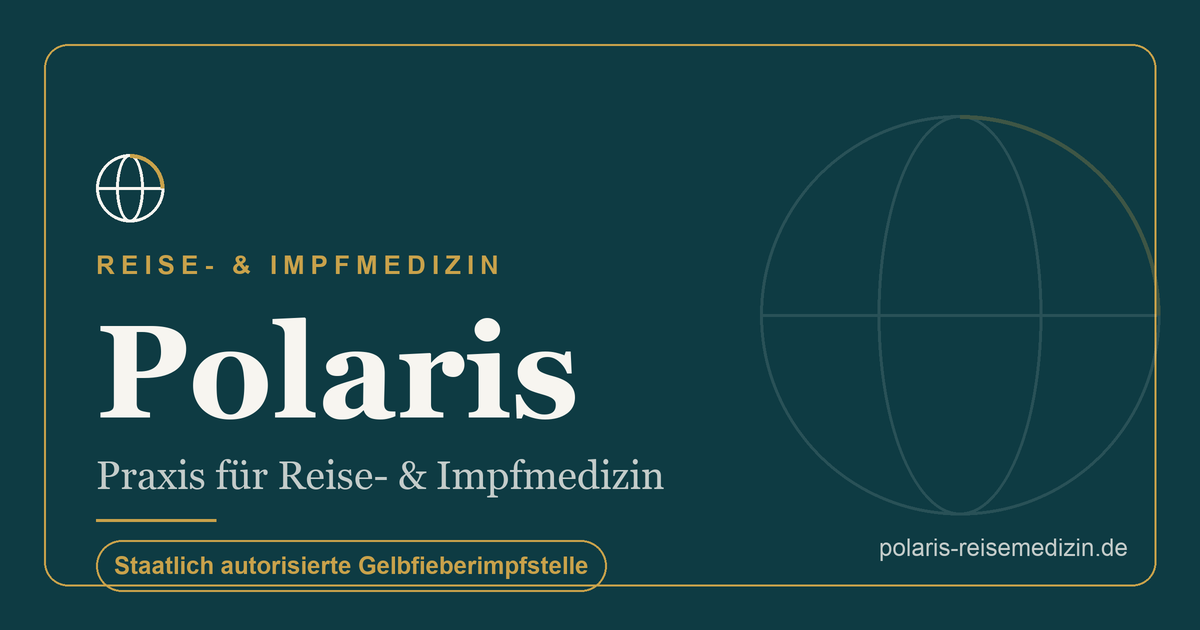
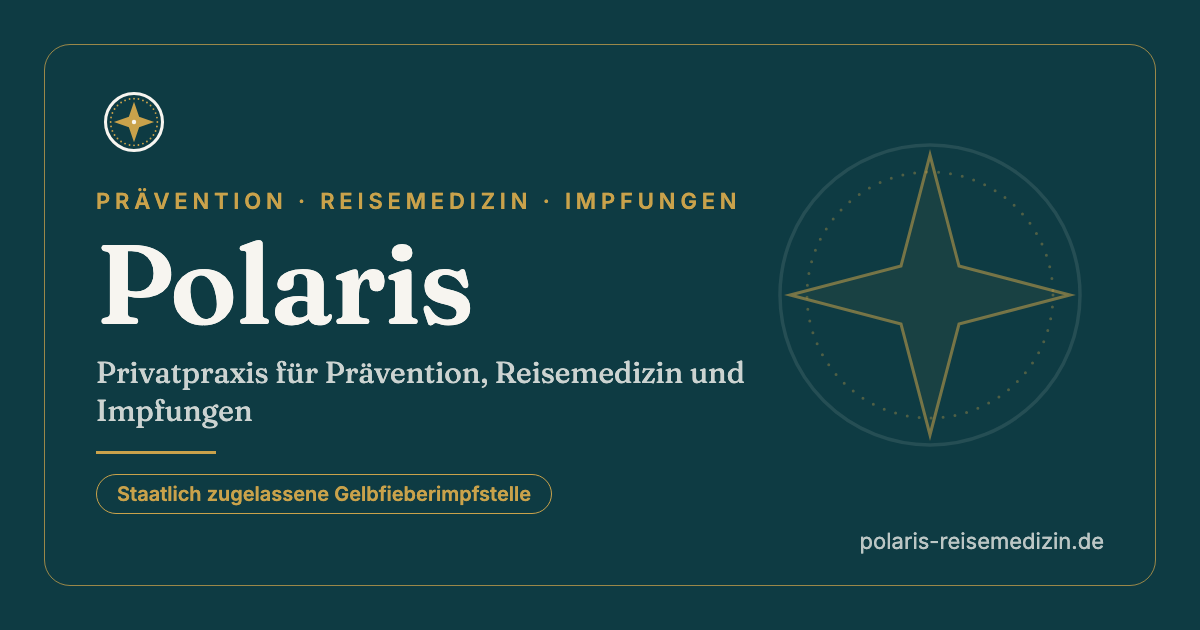
Praxisname „Privatpraxis für Prävention, Reisemedizin und Impfungen“; strukturierte Daten je Präventionsleistung (Art, Beschreibung, Adresse), Angebotsliste auf /praevention, knowsAbout; llms.txt für KI-Dienste; Vorschaubilder mit Leitstern (Petrol und Salbei)

diff --git a/src/data/praevention/schema.ts b/src/data/praevention/schema.ts
@@ -1,0 +1,132 @@
+/**
+ * Strukturierte Daten (JSON-LD, schema.org) der Themenwelt Prävention.
+ *
+ * Ziel (Nicki, 20.11.2026): Wer bei Google oder einer KI nach Gesundheitscheck,
+ * Blutwerten, Laboruntersuchung oder Haarausfall sucht, soll Polaris finden,
+ * nicht nur bei Reiseimpfungen. Deshalb beschreibt jede Leistung sich hier selbst:
+ * Art (Untersuchung, Test, Behandlung), Name, ein Satz und die Adresse ihrer Seite.
+ * Dieselben Knoten nutzen der Praxis-Knoten (`availableService`), die Übersicht
+ * /praevention (Liste der Angebote) und jede Angebotsseite (`about`).
+ *
+ * Nur Typen und Felder, die schema.org kennt; keine Preise (die Seiten nennen
+ * Richtwerte mit „ca.“, ein fester Preis im Code wäre eine falsche Angabe).
+ */
+import type { Locale } from '../../config/site';
+import { preventionOffers, preventionPath } from './index';
+import { haarePrp } from './angebote/haare';
+
+type Knoten = Record<string, unknown>;
+
+/** Welche Art von Leistung ein Angebot ist (schema.org-Typ). */
+const ART: Record<string, 'MedicalProcedure' | 'MedicalTest'> = {
+  gesundheitscheck: 'MedicalProcedure',
+  'laborwerte-check': 'MedicalTest',
+  'gewicht-und-stoffwechsel': 'MedicalProcedure',
+  haare: 'MedicalProcedure',
+};
+
+export const PRP_PFAD = '/praevention/haare/prp';
+
+/** Ohne Haarsprechstunde gibt es auch keine PRP-Seite. */
+export const hatPrp = preventionOffers.some((o) => o.slug === 'haare');
+
+/**
+ * Alle Präventionsleistungen als schema.org-Knoten, in der Reihenfolge der
+ * Website. `zuUrl` macht aus einem Pfad die volle Adresse in der Seitensprache.
+ */
+export function praeventionLeistungen(lang: Locale, zuUrl: (pfad: string) => string): Knoten[] {
+  const angebote: Knoten[] = preventionOffers.map((o) => {
+    const art = ART[o.slug] ?? 'MedicalProcedure';
+    return {
+      '@type': art,
+      name: o.page.meta.title[lang],
+      description: o.teaser[lang],
+      url: zuUrl(preventionPath(o.slug)),
+      ...(art === 'MedicalProcedure' ? { procedureType: 'https://schema.org/NoninvasiveProcedure' } : {}),
+    };
+  });
+  const prp: Knoten[] = hatPrp
+    ? [
+        {
+          '@type': 'MedicalTherapy',
+          name: haarePrp.meta.title[lang],
+          description:
+            lang === 'de'
+              ? 'Behandlung mit plättchenreichem Plasma aus dem eigenen Blut bei erblich bedingtem Haarausfall; der erste Termin beginnt mit einer Haarsprechstunde.'
+              : 'Treatment with platelet-rich plasma from your own blood for inherited hair loss; the first appointment begins with a hair consultation.',
+          url: zuUrl(PRP_PFAD),
+        },
+      ]
+    : [];
+  const tests: Knoten[] = [
+    {
+      '@type': 'MedicalTest',
+      name: lang === 'de' ? 'Vitamin-D-Test' : 'Vitamin D test',
+      description:
+        lang === 'de'
+          ? 'Bestimmung des Vitamin-D-Spiegels im Blut mit ärztlicher Einordnung.'
+          : 'Measurement of the vitamin D level in the blood with a medical assessment.',
+      url: zuUrl('/ratgeber/vitamin-d-test-beim-arzt'),
+    },
+    {
+      '@type': 'MedicalTest',
+      name: lang === 'de' ? 'Großes Blutbild' : 'Full blood count',
+      description:
+        lang === 'de'
+          ? 'Großes Blutbild als Selbstzahlerleistung, mit Besprechung der Werte.'
+          : 'Full blood count as a self-pay service, with a discussion of the results.',
+      url: zuUrl('/ratgeber/grosses-blutbild-kosten'),
+    },
+  ];
+  return [...angebote, ...prp, ...tests];
+}
+
+/** Hauptthema einer Angebotsseite (`about` der MedicalWebPage). */
+export function praeventionThema(slug: string, lang: Locale, zuUrl: (pfad: string) => string): Knoten | undefined {
+  return praeventionLeistungen(lang, zuUrl).find((k) => k.url === zuUrl(slug === 'prp' ? PRP_PFAD : preventionPath(slug)));
+}
+
+/** Zusatz für die PRP-Seite: Gegenanzeigen aus dem Seitentext. */
+export function prpGegenanzeigen(lang: Locale): string[] {
+  const abschnitt = haarePrp.sections.find((s) => s.id === 'nicht-passend');
+  return (abschnitt?.list?.[lang] ?? []).map((t) => t.replace(/[,.]$/, ''));
+}
+
+/** Themen, zu denen die Praxis Auskunft gibt (`knowsAbout` am Praxis-Knoten). */
+export function praxisThemen(lang: Locale): string[] {
+  return lang === 'de'
+    ? [
+        'Prävention',
+        'Gesundheitscheck',
+        'Blutwerte',
+        'Laboruntersuchung',
+        'Vitamin D',
+        'Ferritin',
+        'Blutbild',
+        'Gewicht und Stoffwechsel',
+        'Haarausfall',
+        ...(hatPrp ? ['PRP bei Haarausfall'] : []),
+        'Reisemedizin',
+        'Reiseimpfungen',
+        'Gelbfieberimpfung',
+        'Malariaprophylaxe',
+        'Impfungen für Erwachsene',
+      ]
+    : [
+        'Prevention',
+        'Health check-up',
+        'Blood tests',
+        'Laboratory tests',
+        'Vitamin D',
+        'Ferritin',
+        'Blood count',
+        'Weight and metabolism',
+        'Hair loss',
+        ...(hatPrp ? ['PRP for hair loss'] : []),
+        'Travel medicine',
+        'Travel vaccinations',
+        'Yellow fever vaccination',
+        'Malaria prevention',
+        'Adult vaccinations',
+      ];
+}

diff --git a/src/pages/llms.txt.ts b/src/pages/llms.txt.ts
@@ -1,0 +1,73 @@
+/**
+ * /llms.txt – kurze Übersicht der Praxis für KI-Dienste (Vorschlag llmstxt.org).
+ * Nicki 20.11.2026: „dass wir auch von KI gefunden werden“. Ob ein Dienst die
+ * Datei liest, ist nicht gesichert; sie fasst nur zusammen, was auf den Seiten
+ * steht, und wird bei jedem Bau aus denselben Daten erzeugt.
+ */
+import type { APIRoute } from 'astro';
+import { site, SITE_URL } from '../config/site';
+import { preventionOffers, preventionPath } from '../data/praevention';
+import { haarePrp } from '../data/praevention/angebote/haare';
+import { PRP_PFAD, hatPrp } from '../data/praevention/schema';
+import { NACHWEISE_IM_ANGEBOT } from '../data/ausland/stand';
+
+const url = (pfad: string) => new URL(pfad.endsWith('/') ? pfad : `${pfad}/`, SITE_URL).href;
+const zeile = (name: string, pfad: string, text: string) => `- [${name}](${url(pfad)}): ${text}`;
+
+const praevention = [
+  ...preventionOffers.map((o) => zeile(o.page.meta.title.de, preventionPath(o.slug), o.teaser.de)),
+  ...(hatPrp
+    ? [zeile(haarePrp.meta.title.de, PRP_PFAD, 'Plasma aus dem eigenen Blut bei erblich bedingtem Haarausfall. Der erste Termin beginnt mit einer Haarsprechstunde; passt PRP nicht, wird nicht behandelt.')]
+    : []),
+  zeile('Beispielkosten Prävention', '/praevention/kosten', 'Richtwerte nach der Gebührenordnung für Ärzte (GOÄ), je Termin und mit Laborwerten.'),
+  zeile('Termin Prävention', '/praevention/termin', 'Ersttermine direkt über die Website buchen, auch am Abend und am Samstag.'),
+];
+
+const wissen = [
+  zeile('Welche Blutwerte wofür?', '/ratgeber/blutwerte-erklaert', 'Die wichtigsten Blutwerte verständlich erklärt.'),
+  zeile('Großes Blutbild: Kosten', '/ratgeber/grosses-blutbild-kosten', 'Was ein großes Blutbild zeigt und was es als Selbstzahlerleistung kostet.'),
+  zeile('Vitamin-D-Test beim Arzt', '/ratgeber/vitamin-d-test-beim-arzt', 'Wann eine Messung etwas ändert und was sie kostet.'),
+];
+
+const reise = [
+  zeile('Leistungen', '/leistungen', 'Reisemedizinische Beratung, Reiseimpfungen, Gelbfieberimpfung, Malaria- und Höhenberatung, Impfungen für Erwachsene.'),
+  zeile('Reiseziele', '/reiseziele', 'Impf- und Gesundheitshinweise nach Reiseland.'),
+  zeile('Krankheitsbilder', '/krankheitsbilder', 'Reisekrankheiten und impfpräventable Erkrankungen erklärt.'),
+  ...(NACHWEISE_IM_ANGEBOT
+    ? [zeile('Ausland und Nachweise', '/ausland', 'Beratung vor Auslandsaufenthalten und Pilgerreisen, Gesundheitsnachweise und Atteste.')]
+    : []),
+  zeile('Kosten und Abrechnung', '/kosten', 'Abrechnung nach GOÄ, Beispielkosten der Reisemedizin.'),
+  zeile('Termin Reisemedizin und Impfungen', '/termin', 'Termine direkt über die Website buchen.'),
+];
+
+const text = `# ${site.brand.legalName}
+
+> Ärztliche Privatpraxis in ${site.contact.city} bei Düsseldorf für Prävention, Reisemedizin und Impfungen. Gesundheitscheck, Blutwerte, Sprechstunde Gewicht und Stoffwechsel, Haarsprechstunde${hatPrp ? ' und PRP bei Haarausfall' : ''}; dazu reisemedizinische Beratung und Reiseimpfungen als staatlich zugelassene Gelbfieberimpfstelle. Termine lassen sich direkt über die Website buchen.
+
+- Adresse: ${site.contact.street}, ${site.contact.zip} ${site.contact.city}
+- Telefon: ${site.contact.phone}
+- E-Mail: ${site.contact.email}
+- Abrechnung: Privatpraxis nach der Gebührenordnung für Ärzte (GOÄ), für Selbstzahler und Privatversicherte. Viele gesetzliche Krankenkassen erstatten Reiseimpfungen freiwillig ganz oder teilweise; Umfang und Bedingungen sind je Kasse unterschiedlich.
+- Sprachen: Deutsch und Englisch (englische Seiten unter ${url('/en')})
+- Einzugsgebiet: ${site.contact.city}, Monheim am Rhein, Hilden, Leichlingen, Solingen, Leverkusen, Düsseldorf
+
+## Prävention
+
+${praevention.join('\n')}
+
+## Wissen zu Blutwerten
+
+${wissen.join('\n')}
+
+## Reisemedizin und Impfungen
+
+${reise.join('\n')}
+
+## Praxis
+
+${zeile('Kontakt und Anfahrt', '/kontakt', 'Adresse, Telefon, Sprechzeiten und Anfahrt.')}
+${zeile('Praxis und Team', '/team', 'Wie wir arbeiten.')}
+`;
+
+export const GET: APIRoute = () =>
+  new Response(text, { headers: { 'Content-Type': 'text/plain; charset=utf-8' } });

diff --git a/src/i18n/ui.ts b/src/i18n/ui.ts
@@ -117,7 +117,7 @@ export const ui = {
     'footer.rights': 'Alle Rechte vorbehalten.',
 
     // Startseite — Hero
-    'home.eyebrow': 'Privatpraxis für Reisemedizin, Impfungen & Prävention',
+    'home.eyebrow': 'Privatpraxis für Prävention, Reisemedizin & Impfungen',
     'home.heroTitle': 'Gut vorbereitet reisen.',
     'home.heroLead':
       'Ihre reisemedizinische Privatpraxis in Langenfeld: persönliche Beratung, Reiseimpfungen und Vorsorge – ärztlich fundiert und auf dem aktuellen Stand der Wissenschaft.',
@@ -411,7 +411,7 @@ export const ui = {
     'footer.rights': 'All rights reserved.',
 
     // Home — hero
-    'home.eyebrow': 'Private practice for travel medicine, vaccinations & prevention',
+    'home.eyebrow': 'Private practice for prevention, travel medicine & vaccinations',
     'home.heroTitle': 'Travel well prepared.',
     'home.heroLead':
       'Your travel-medicine private practice in Langenfeld: personal advice, travel vaccinations and prevention – medically grounded and based on the current state of science.',

diff --git a/src/data/praevention/index.ts b/src/data/praevention/index.ts
@@ -103,8 +103,8 @@ export const preventionHub = {
   meta: {
     title: { de: 'Prävention in Langenfeld: Gesundheitscheck und Blutwerte', en: 'Prevention in Langenfeld: health check-up and blood values' },
     description: {
-      de: 'Gesundheitscheck mit Befundbericht, Laborwerte-Check und Sprechstunde Gewicht: in zwei Terminen, mit Zeit. Privatpraxis in Langenfeld bei Düsseldorf.',
-      en: 'Health check-up with written report, lab value check and weight consultation: two appointments, with time. Private practice in Langenfeld near Düsseldorf.',
+      de: 'Gesundheitscheck, Blutwerte, Gewicht und Haarausfall: ärztliche Prävention in zwei Terminen, mit Befundbericht. Privatpraxis in Langenfeld bei Düsseldorf.',
+      en: 'Health check-up, blood tests, weight and hair loss: medical prevention in two appointments, with a written report. Private practice in Langenfeld.',
     },
     eyebrow: { de: 'Prävention bei Polaris', en: 'Prevention at Polaris' },
     lead: {

diff --git a/src/data/kontakt.ts b/src/data/kontakt.ts
@@ -88,8 +88,8 @@ export const kontaktPage: KontaktPage = {
       en: 'Contact & directions',
     },
     description: {
-      de: 'So erreichen Sie unsere Privatpraxis für Reisemedizin, Impfungen und Prävention in Langenfeld: Adresse, Telefon, E-Mail, Sprechzeiten und Anfahrt.',
-      en: 'How to reach our travel and vaccination medicine practice in Langenfeld: address, phone, email, opening hours and directions.',
+      de: 'So erreichen Sie unsere Privatpraxis für Prävention, Reisemedizin und Impfungen in Langenfeld: Adresse, Telefon, E-Mail, Sprechzeiten und Anfahrt.',
+      en: 'How to reach our private practice for prevention, travel medicine and vaccinations in Langenfeld: address, phone, email, opening hours and directions.',
     },
     eyebrow: {
       de: 'Kontakt',

diff --git a/src/config/site.ts b/src/config/site.ts
@@ -63,11 +63,11 @@ export const site = {
     /** Markenname — hier zentral änderbar. */
     name: 'Polaris',
     tagline: {
-      de: 'Reisemedizin, Impfungen & Prävention',
-      en: 'Travel medicine, vaccinations & prevention',
+      de: 'Prävention, Reisemedizin & Impfungen',
+      en: 'Prevention, travel medicine & vaccinations',
     },
     /** Vollständige rechtliche Bezeichnung (für Impressum/Datenschutz). */
-    legalName: 'Polaris – Privatpraxis für Reisemedizin, Impfungen und Prävention',
+    legalName: 'Polaris – Privatpraxis für Prävention, Reisemedizin und Impfungen',
     /**
      * Praxisinhaber (natürliche Person) — Einzelpraxis. Wird im Impressum sowie
      * als Verantwortlicher der Datenschutzerklärung namentlich ausgewiesen.

diff --git a/src/data/team.ts b/src/data/team.ts
@@ -44,8 +44,8 @@ export const teamPage: TeamPage = {
       en: 'Our practice',
     },
     description: {
-      de: 'Lernen Sie unsere Privatpraxis für Reisemedizin, Impfungen und Prävention kennen – mit ärztlicher Beratung auf Grundlage gesicherter Fachquellen.',
-      en: 'Get to know our travel and vaccination medicine practice – with medical advice grounded in trusted professional sources.',
+      de: 'Lernen Sie unsere Privatpraxis für Prävention, Reisemedizin und Impfungen kennen – mit ärztlicher Beratung auf Grundlage gesicherter Fachquellen.',
+      en: 'Get to know our private practice for prevention, travel medicine and vaccinations – with medical advice grounded in trusted professional sources.',
     },
     eyebrow: {
       de: 'Über uns',

diff --git a/public/images/CREDITS.md b/public/images/CREDITS.md
@@ -9,6 +9,7 @@ lizenzierte Stockfotografie** zum Einsatz.
 | `../favicon.svg` | Marken-Signet „Polaris" (Kompass/Globus) | Eigenanfertigung für diese Praxis | © Praxisinhaber, alle Rechte vorbehalten |
 | `../apple-touch-icon.png` | Home-Screen-Icon (180×180), abgeleitet vom Signet | Eigenanfertigung (generiert aus dem Signet) | © Praxisinhaber, alle Rechte vorbehalten |
 | `og-default.png` | Open-Graph-Vorschaubild (1200×630) | Eigenanfertigung (Marke/Typografie) | © Praxisinhaber, alle Rechte vorbehalten |
+| `og-praevention.png` | Open-Graph-Vorschaubild der Präventionswelt (1200×630, Salbei) | Eigenanfertigung (Marke/Typografie) | © Praxisinhaber, alle Rechte vorbehalten |
 | `team/alexander-mayer.webp` | Porträt Alexander Mayer (Arzt) | Vom Auftraggeber bereitgestellt | Nutzungsrecht durch die abgebildete Person erteilt |
 
 ## Hinweise
